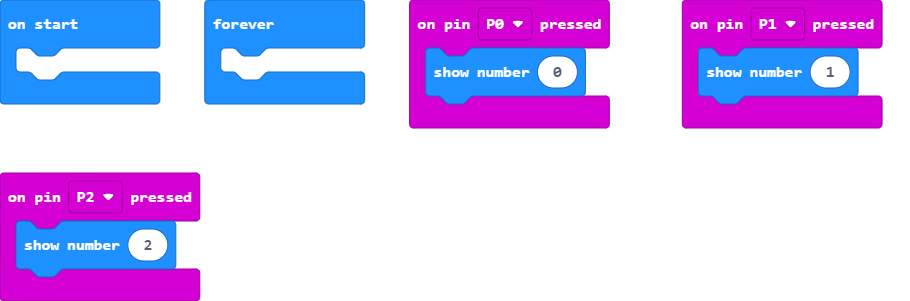
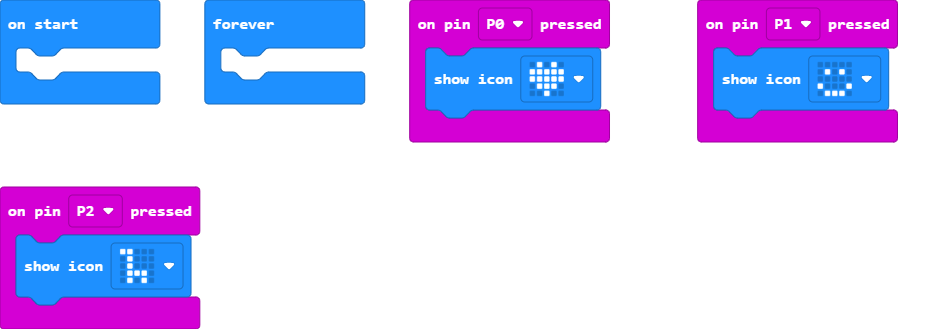
Update main.blocks, main.ts

diff --git a/main.ts b/main.ts
@@ -1,11 +1,11 @@
 input.onPinPressed(TouchPin.P0, function () {
-    basic.showNumber(0)
+    basic.showIcon(IconNames.Heart)
 })
 input.onPinPressed(TouchPin.P2, function () {
-    basic.showNumber(2)
+    basic.showIcon(IconNames.Giraffe)
 })
 input.onPinPressed(TouchPin.P1, function () {
-    basic.showNumber(1)
+    basic.showIcon(IconNames.Happy)
 })
 basic.forever(function () {
 	
